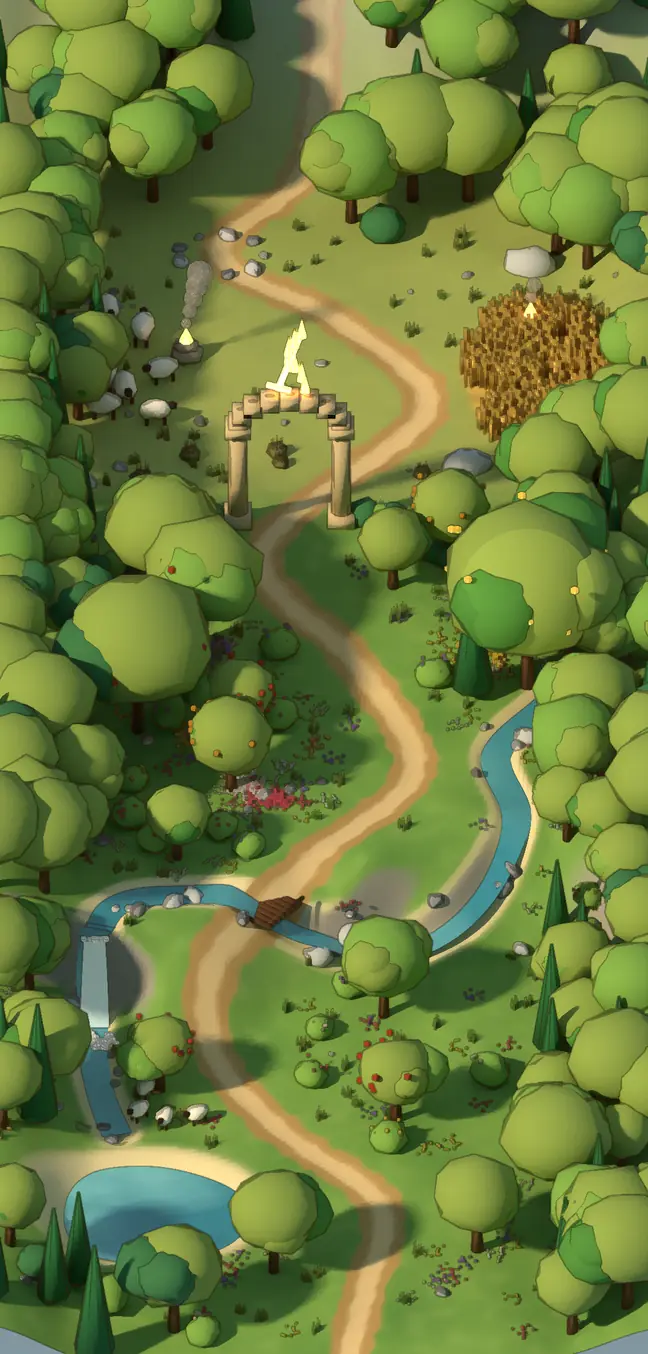
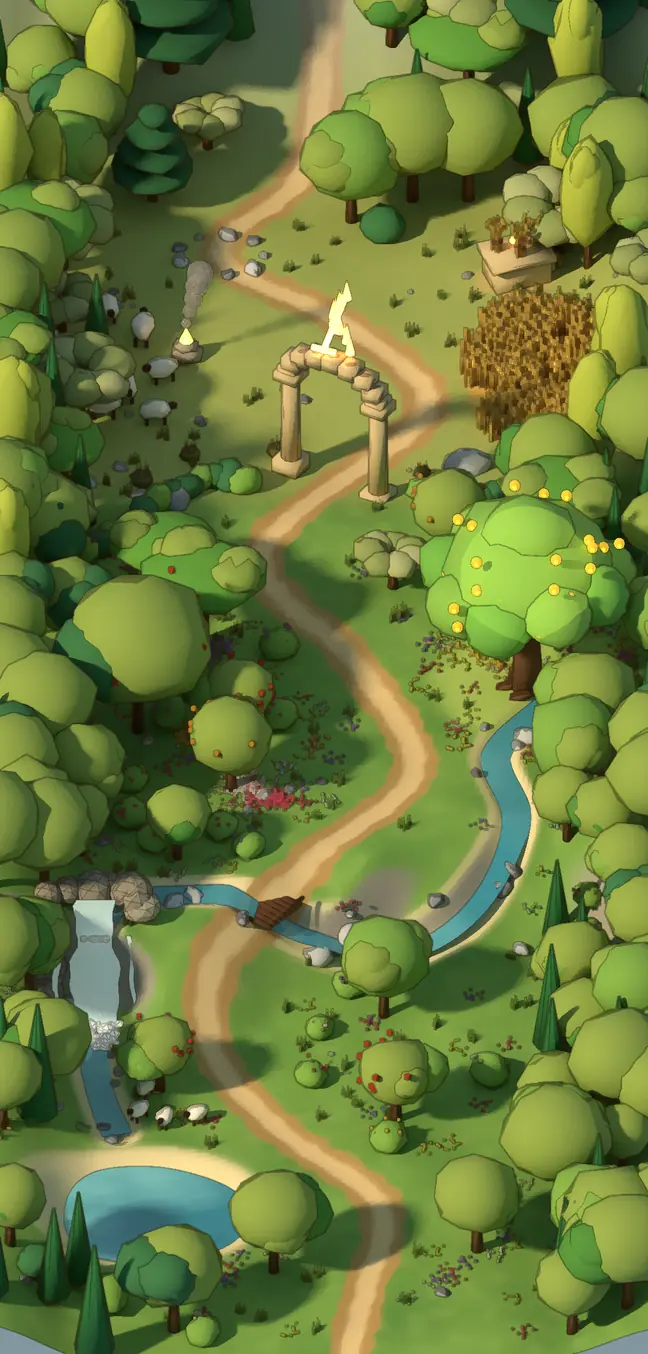
Mapa (Éden): refinamento final da pintura: cachoeira, árvore da vida, variedade de copas, altar de Caim e portão recuado [skip ci]
Os pontos das fases e do baú são idênticos aos anteriores (as mudanças usam um gerador
aleatório próprio e são aplicadas sobre a vegetação já posicionada). Imagem alta 200 KB,
leve 74 KB.

Claude-Session: https://claude.ai/code/session_016Hc4vYc4EVvygkCuyLx8TS

Changed region(s): [[0.0, 0.0, 1.0, 0.5583], [0.0617, 0.6204, 0.3086, 0.7755]]

diff --git a/tools/mapa/eden.py b/tools/mapa/eden.py
@@ -41,6 +41,9 @@ AMOSTRAS = int(args[2]) if len(args) > 2 else 64
 os.makedirs(PASTA, exist_ok=True)
 random.seed(11)
 np.random.seed(11)
+# refinamento final: tudo o que foi acrescentado usa este gerador próprio, para não mexer na
+# sequência global (que decide a posição de toda a vegetação já aprovada)
+RR = random.Random(2026)
 
 bpy.ops.wm.read_factory_settings(use_empty=True)
 sc = bpy.context.scene
@@ -203,6 +206,16 @@ e_campo = np.hypot((GX - 6.4) / 2.7, (GY - 42.4) / 3.5) + 0.22 * borda_c
 campo = suave((1.0 - e_campo) / 0.18)[..., None] * (1 - cam)
 sulco = 0.85 + 0.15 * np.sin(GY * 9.0)[..., None]
 cor = cor * (1 - campo) + hexc('#d4b45a') * sulco * campo
+# clareira em volta da árvore da vida: grama clara e dourada, borda irregular
+VIDA_XY = (5.9, 27.6)
+d_vida = np.hypot(GX - VIDA_XY[0], GY - VIDA_XY[1]) + 0.35 * nz2
+clar = suave((3.1 - d_vida) / 0.9)[..., None] * (1 - cam)
+cor = cor * (1 - 0.8 * clar) + hexc('#b4cf6a') * 0.8 * clar
+# chão batido em volta do altar de Caim (ao norte do trigal)
+CAIM_XY = (5.6, 47.4)
+d_caim = np.hypot((GX - CAIM_XY[0]) / 1.5, (GY - CAIM_XY[1]) / 1.1) + 0.2 * nz2
+chao_c = suave((1.0 - d_caim) / 0.3)[..., None] * (1 - cam)
+cor = cor * (1 - 0.7 * chao_c) + hexc('#cdb27a') * 0.7 * chao_c
 # longe (norte): perspectiva aérea — mais claro e azulado
 longe = suave((GY - 50.0) / 12.0)[..., None]
 cor = cor * (1 - 0.55 * longe) + hexc('#9fb3c4') * 0.55 * longe
@@ -310,19 +323,63 @@ iq = int(np.argmin(np.abs(RIO[:, 1] - yq) + 10 * (RIO[:, 0] > -4)))
 xq = float(RIO[iq, 0])
 z_alto = z_em(xq, yq + 0.6) + 0.2
 z_baixo = z_em(xq, yq - 2.0) + 0.15
+z_topo = z_alto + 1.1  # a água sai de um paredão de rochas acima do terraço: queda mais alta
 vs, fs = [], []
-for k in range(9):
-    t = k / 8
-    for s_ in (-1, 1):
-        vs.append((xq + s_ * (0.32 + 0.12 * t), yq - 0.2 - 1.0 * t * t, z_alto + (z_baixo - z_alto) * t))
+LIN = 18
+for k in range(LIN + 1):
+    t = k / LIN
+    yy = yq + 0.35 - 1.55 * t ** 1.4
+    zz = z_topo + (z_baixo - z_topo) * t
+    meia = 0.5 + 0.28 * t  # abre ao cair
+    xe = xq - meia - 0.09 * math.sin(t * 13.0 + 0.4) - 0.05 * math.sin(t * 29.0)
+    xd = xq + meia + 0.08 * math.sin(t * 11.0 + 1.3) + 0.05 * math.sin(t * 23.0 + 2.0)
+    for xx in (xe, xq + 0.07 * math.sin(t * 9.0), xd):
+        vs.append((xx, yy, zz))
     if k:
-        a = 2 * (k - 1)
-        fs.append((a, a + 1, a + 3, a + 2))
+        a0 = 3 * (k - 1)
+        fs += [(a0, a0 + 1, a0 + 4, a0 + 3), (a0 + 1, a0 + 2, a0 + 5, a0 + 4)]
 mq = bpy.data.meshes.new('cachoeira')
 mq.from_pydata(vs, [], fs)
 oq = bpy.data.objects.new('cachoeira', mq)
 sc.collection.objects.link(oq)
 oq.data.materials.append(queda)
+# fios de água soltos dos lados (a queda não é uma lâmina só)
+for lado, ini, comp, larg in ((-1, 0.15, 0.75, 0.09), (1, 0.3, 0.65, 0.07), (-1, 0.5, 0.45, 0.06)):
+    vs2, fs2 = [], []
+    for k in range(9):
+        t = ini + comp * k / 8
+        yy = yq + 0.35 - 1.55 * t ** 1.4
+        zz = z_topo + (z_baixo - z_topo) * t
+        xc = xq + lado * (0.95 + 0.25 * t) + 0.05 * math.sin(t * 17)
+        vs2 += [(xc - larg, yy - 0.02, zz), (xc + larg, yy - 0.02, zz)]
+        if k:
+            a0 = 2 * (k - 1)
+            fs2.append((a0, a0 + 1, a0 + 3, a0 + 2))
+    m2 = bpy.data.meshes.new('cachoeira_fio')
+    m2.from_pydata(vs2, [], fs2)
+    o2 = bpy.data.objects.new('cachoeira_fio', m2)
+    sc.collection.objects.link(o2)
+    o2.data.materials.append(queda)
+rochedo = material('Rochedo', tuple(hexc('#8d8678')), 0.95)
+rochedo2 = material('Rochedo2', tuple(hexc('#a9a191')), 0.95)
+for k in range(22):  # paredão de rochas: dos dois lados e atrás da queda, mais alto que o terraço
+    lado = -1 if k % 2 else 1
+    t = RR.uniform(0.0, 1.0)
+    yy = yq + 0.55 - 1.5 * t ** 1.4 + RR.uniform(0.1, 0.5)
+    zz = z_topo + (z_baixo - z_topo) * t - 0.15
+    xx = xq + lado * (1.05 + 0.3 * t + RR.uniform(0.0, 0.5))
+    bpy.ops.mesh.primitive_ico_sphere_add(subdivisions=2, radius=RR.uniform(0.35, 0.65), location=(xx, yy, zz))
+    o3 = bpy.context.active_object
+    o3.scale = (1.0, RR.uniform(0.8, 1.2), RR.uniform(0.7, 1.1))
+    o3.data.materials.append(rochedo if k % 3 else rochedo2)
+for k in range(7):  # rochas da borda de cima, por onde a água passa
+    bpy.ops.mesh.primitive_ico_sphere_add(subdivisions=2, radius=RR.uniform(0.4, 0.6), location=(xq + RR.uniform(-1.4, 1.4), yq + 0.9 + RR.uniform(0, 0.5), z_topo - 0.3))
+    bpy.context.active_object.data.materials.append(rochedo)
+for k in range(28):  # névoa e espuma no pé da queda, mais larga
+    a = RR.uniform(0, 2 * math.pi)
+    r = RR.uniform(0.2, 1.3)
+    bpy.ops.mesh.primitive_ico_sphere_add(subdivisions=1, radius=RR.uniform(0.1, 0.24), location=(xq + math.cos(a) * r, yq - 1.25 + math.sin(a) * r * 0.45, z_baixo + 0.12))
+    bpy.context.active_object.data.materials.append(espuma)
 for k in range(10):  # espuma na borda de cima e pedras dos lados da queda
     bpy.ops.mesh.primitive_ico_sphere_add(subdivisions=1, radius=random.uniform(0.07, 0.12), location=(xq + random.uniform(-0.35, 0.35), yq - 0.15, z_alto + 0.05))
     bpy.context.active_object.data.materials.append(espuma)
@@ -485,15 +542,36 @@ def objeto_unico(nome, partes, x, y, rot=0.0, esc=1.0):
 
 
 # 3. árvore da vida (frutos dourados, leve brilho) e árvore do conhecimento (frutos vermelhos)
-vida = arvore_copa('arvore_vida', 4.2, 2.0, 'copa1', 'fruto_d', 91)
-plantar(vida, 5.9, 27.6, 1.25, 0.4, 'arvore_vida_i')
+def arvore_da_vida():
+    rnd = random.Random(91)
+    copa_v = material('CopaVida', tuple(hexc('#7fb34c')), 0.85, emissao=tuple(hexc('#c9e07a')), forca=0.035)
+    copa_v2 = material('CopaVida2', tuple(hexc('#6fae49')), 0.85)
+    fruto = material('FrutoVida', tuple(hexc('#f5c536')), 0.35, emissao=tuple(hexc('#ffcf3a')), forca=1.6)
+    partes = [(cone((0, 0, 0), 0.42, 0.22, 3.0, 12), mats['tronco'])]
+    for k in range(5):  # raízes à mostra
+        a = k * 2 * math.pi / 5 + 0.3
+        partes.append((esfera((math.cos(a) * 0.45, math.sin(a) * 0.45, 0.08), (0.42, 0.16, 0.14), 1, 0.1, 120 + k), mats['tronco']))
+    partes.append((esfera((0, 0, 3.9), (2.2, 2.2, 1.45), 2, 0.14, 130), copa_v))  # cúpula larga
+    for k in range(8):  # coroa de lóbulos em volta (silhueta própria, diferente das outras árvores)
+        a = k * 2 * math.pi / 8 + rnd.uniform(-0.15, 0.15)
+        partes.append((esfera((math.cos(a) * 1.9, math.sin(a) * 1.9, 3.4 + rnd.uniform(-0.2, 0.3)), (0.95, 0.95, 0.8), 2, 0.18, 140 + k), copa_v2 if k % 2 else copa_v))
+    partes.append((esfera((0, 0, 4.9), (1.2, 1.2, 0.9), 2, 0.15, 150), copa_v))
+    for k in range(34):
+        a = rnd.uniform(0, 2 * math.pi)
+        r = rnd.uniform(1.4, 2.6)
+        partes.append((esfera((math.cos(a) * r, math.sin(a) * r, 3.2 + rnd.uniform(0, 1.9)), (0.14, 0.14, 0.16), 2, 0.0), fruto))
+    return juntar('arvore_vida', partes)
+
+
+vida = arvore_da_vida()
+plantar(vida, 5.9, 27.6, 1.15, 0.4, 'arvore_vida_i')
 luz_v = bpy.data.lights.new('brilho_vida', 'POINT')
-luz_v.energy = 45
+luz_v.energy = 75
 luz_v.color = (1.0, 0.85, 0.45)
 luz_v.shadow_soft_size = 2.0
 lo_v = bpy.data.objects.new('brilho_vida', luz_v)
 sc.collection.objects.link(lo_v)
-lo_v.location = (5.9, 26.4, z_em(5.9, 27.6) + 4.2)
+lo_v.location = (5.9, 26.2, z_em(5.9, 27.6) + 5.2)
 conh = arvore_copa('arvore_conhecimento', 3.8, 1.8, 'copa3', 'fruto_v', 97)
 plantar(conh, -5.4, 25.6, 1.2, 1.2, 'arvore_conhecimento_i')
 # nascente do rio: pedras em volta
@@ -502,7 +580,11 @@ for k in range(8):
     plantar(PED[k % 3], 6.6 + math.cos(a) * 0.9, 27.0 + math.sin(a) * 0.7 - 1.3, 0.55, nome='nascente')
 
 # 4. portão do jardim (leste), espada flamejante acima; sebe do jardim dos dois lados; espinhos fora
-xp, yp = -1.0, 35.2
+# recuado ao norte, sobre a própria trilha, para o estandarte da fase 4 não cobrir o arco
+_i = int(np.argmin(np.abs(CAMINHO[:, 1] - 37.6)))
+xp, yp = float(CAMINHO[_i, 0]), float(CAMINHO[_i, 1])
+_tg = CAMINHO[min(_i + 1, len(CAMINHO) - 1)] - CAMINHO[max(_i - 1, 0)]
+rot_portao = math.atan2(_tg[1], _tg[0]) - math.pi / 2
 _portao = []
 for lado in (-1, 1):
     _portao += [(caixa((lado * 1.5, 0, 0.25), (0.8, 0.8, 0.5)), mats['portal']),
@@ -511,7 +593,7 @@ for lado in (-1, 1):
 for k in range(9):  # verga em arco, de pedras
     a = math.pi * k / 8
     _portao.append((caixa((-1.5 * math.cos(a), 0, 3.7 + 0.9 * math.sin(a)), (0.55, 0.6, 0.42)), mats['portal']))
-objeto_unico('portao', _portao, xp, yp, 0.0)
+objeto_unico('portao', _portao, xp, yp, rot_portao)
 espada = objeto_unico('espada', [
     (caixa((0, 0, 0), (0.12, 0.06, 1.5)), mats['espada']),
     (caixa((0, 0, -0.68), (0.5, 0.08, 0.1)), mats['espada']),
@@ -523,13 +605,20 @@ for k in range(7):  # chamas em volta da lâmina (Gn 3.24: a espada inflamada)
     a = k * 2 * math.pi / 7
     bpy.ops.mesh.primitive_cone_add(vertices=6, radius1=0.16, depth=0.7, location=(xp + 0.25 * math.cos(a) + 0.2, yp + 0.12 * math.sin(a), z_em(xp, yp) + 5.2 + 0.35 * k))
     bpy.context.active_object.data.materials.append(mats['fogo'])
+# a sebe acompanha o portão; os sorteios dela saem de uma cópia do gerador global, que depois
+# avança exatamente como antes (o resto da vegetação continua no mesmo lugar)
+_rs = random.Random()
+_rs.setstate(random.getstate())
+_n_antes = sum(1 for k in range(30) for lado in (-1, 1) if abs(-1.0 + lado * (2.2 + k * 0.42)) <= 9.2)
+for _ in range(3 * _n_antes):
+    random.random()
 for k in range(30):  # sebe viva do jardim, em arco irregular, interrompida no portão
     for lado in (-1, 1):
         x = xp + lado * (2.2 + k * 0.42)
         if abs(x) > 9.2:
             continue
-        y = yp - 0.07 * (x - xp) ** 2 + 0.6 * math.sin(x * 1.3) + random.uniform(-0.2, 0.2)
-        plantar(ARB[k % 3], x, y, random.uniform(0.65, 0.9), nome='sebe')
+        y = yp - 0.07 * (x - xp) ** 2 + 0.6 * math.sin(x * 1.3) + _rs.uniform(-0.2, 0.2)
+        plantar(ARB[k % 3], x, y, _rs.uniform(0.65, 0.9), _rs.uniform(0, 6.28), nome='sebe')
 for k in range(14):  # espinhos e cardos do lado de fora
     x, y = random.uniform(-8.5, 8.5), random.uniform(36.5, 40.0)
     if dist_caminho(np.array([x]), np.array([y]))[0] > 1.6:
@@ -559,7 +648,30 @@ def altar(nome, x, y, fumaca_alta):
 
 
 altar('altar_abel', -4.0, 43.6, True)
-altar('altar_caim', 6.0, 44.5, False)
+
+
+def altar_caim(x, y):
+    lavrada = material('PedraLavrada', tuple(hexc('#cbb68a')), 0.9)
+    partes = [(caixa((0, 0, 0.32), (1.25, 0.9, 0.64)), lavrada),
+              (caixa((0, 0, 0.7), (1.45, 1.05, 0.14)), lavrada)]
+    for k, (dx, dy) in enumerate(((-0.4, 0.15), (0.0, -0.2), (0.42, 0.12))):  # feixes de trigo (a oferta)
+        for j in range(11):  # hastes finas, com as espigas abrindo no alto
+            ang = j * 2 * math.pi / 11 + k
+            r0 = 0.05 + 0.06 * (j % 3) / 2
+            partes.append((cone((dx + math.cos(ang) * r0, dy + math.sin(ang) * r0, 0.77), 0.022, 0.018, 0.62, 5), mats['trigo']))
+            partes.append((esfera((dx + math.cos(ang) * (r0 + 0.1), dy + math.sin(ang) * (r0 + 0.1), 1.45), (0.045, 0.045, 0.11), 1, 0.0), mats['trigo']))
+        partes.append((cone((dx, dy, 1.0), 0.13, 0.13, 0.06, 8), mats['madeira']))  # amarra
+    partes.append((cone((0.05, 0.3, 0.77), 0.12, 0.0, 0.3, 6), mats['fogo']))
+    objeto_unico('altar_caim', partes, x, y, 0.35, 1.35)
+    for k in range(2):  # fumaça baixa, que se espalha de lado (a de Abel sobe alta)
+        bpy.ops.mesh.primitive_ico_sphere_add(subdivisions=2, radius=0.15 + k * 0.05, location=(x + 0.35 + 0.35 * k, y + 0.3, z_em(x, y) + 1.25 + 0.12 * k))
+        bpy.context.active_object.data.materials.append(mats['fumaca'])
+    for k in range(5):  # feixes no chão em volta
+        a = 0.6 + k * 0.9
+        plantar(TRIGO, x + math.cos(a) * 1.25, y + math.sin(a) * 0.95, 0.55, RR.uniform(0, 6.28), nome='feixe')
+
+
+altar_caim(*CAIM_XY)
 
 # baú: clareira de pedra (o baú interativo fica por cima, na interface)
 xb, yb = PONTOS[5][1]
@@ -646,6 +758,78 @@ cx_, cy_ = melhor[1]
 ang = math.atan2(*(CAMINHO[min(len(CAMINHO) - 1, np.argmin(np.hypot(CAMINHO[:, 0] - cx_, CAMINHO[:, 1] - cy_)) + 2)] - np.array([cx_, cy_]))[::-1])
 objeto_unico('ponte', [(caixa((0, k * 0.22 - 0.66, 0.3), (1.4, 0.18, 0.08)), mats['madeira']) for k in range(7)] +
              [(caixa((s * 0.72, 0, 0.55), (0.08, 1.6, 0.08)), mats['madeira']) for s in (-1, 1)], cx_, cy_, ang - math.pi / 2)
+
+# ------------------------------------------------------------------ refinamento: clareiras e variedade
+def variante(nome, tipo, sem):
+    rnd = random.Random(sem)
+    if tipo == 'oliveira':  # baixa, larga, verde acinzentado, tronco torto
+        partes = [(cone((0, 0, 0), 0.2, 0.12, 1.0, 8), mats['tronco']), (cone((0.15, 0, 0.8), 0.12, 0.08, 0.6, 8), mats['tronco'])]
+        for k in range(7):
+            a = k * 2 * math.pi / 7
+            partes.append((esfera((math.cos(a) * 0.8, math.sin(a) * 0.7, 1.45 + rnd.uniform(-0.15, 0.2)), (0.62, 0.58, 0.42), 2, 0.25, sem + k), mats['oliva' if k % 3 else 'oliva2']))
+        return juntar(nome, partes)
+    if tipo == 'terebinto':  # copa em guarda-chuva, achatada
+        partes = [(cone((0, 0, 0), 0.2, 0.13, 2.4, 8), mats['tronco']),
+                  (esfera((0, 0, 2.6), (1.9, 1.7, 0.6), 2, 0.2, sem), mats['copa5'])]
+        for k in range(4):
+            a = rnd.uniform(0, 2 * math.pi)
+            partes.append((esfera((math.cos(a) * 1.1, math.sin(a) * 1.0, 2.9), (0.8, 0.8, 0.45), 2, 0.2, sem + 5 + k), mats['copa4']))
+        return juntar(nome, partes)
+    if tipo == 'alamo':  # alto e estreito, verde-amarelado
+        return juntar(nome, [(cone((0, 0, 0), 0.13, 0.08, 1.2, 8), mats['tronco']),
+                             (esfera((0, 0, 2.6), (0.75, 0.75, 1.9), 2, 0.15, sem), mats['copa_clara']),
+                             (esfera((0.2, 0.1, 3.5), (0.45, 0.45, 0.9), 2, 0.15, sem + 1), mats['copa_clara'])])
+    if tipo == 'cedro':  # camadas escuras, em degraus
+        partes = [(cone((0, 0, 0), 0.18, 0.1, 1.2, 8), mats['tronco'])]
+        for k in range(4):
+            partes.append((esfera((rnd.uniform(-0.1, 0.1), 0, 1.3 + k * 0.75), (1.5 - k * 0.3, 1.4 - k * 0.28, 0.32), 2, 0.2, sem + k), mats['copa_escura']))
+        return juntar(nome, partes)
+    if tipo == 'amendoeira':  # em flor (Gn 43.11 cita amêndoas entre os bons frutos da terra)
+        return arvore_copa(nome, 2.3, 1.0, 'amendoa', None, sem)
+    return arvore_copa(nome, 2.0 + rnd.uniform(0, 1.2), 0.9 + rnd.uniform(0, 0.5), 'copa_escura', None, sem)
+
+
+mats.update({
+    'oliva': material('Oliva', tuple(hexc('#8e9c5e')), 0.9), 'oliva2': material('Oliva2', tuple(hexc('#a6ad7a')), 0.9),
+    'copa5': material('Copa5', tuple(hexc('#5f9a3e')), 0.9), 'copa_clara': material('CopaClara', tuple(hexc('#a9b949')), 0.9),
+    'copa_escura': material('CopaEscura', tuple(hexc('#2f5f3b')), 0.9), 'amendoa': material('Amendoa', tuple(hexc('#efcfd6')), 0.85),
+})
+VARIANTES = [variante(f'var_{t}{k}', t, 300 + 17 * k + i * 101) for i, t in enumerate(['oliveira', 'terebinto', 'alamo', 'cedro', 'amendoeira', 'escura']) for k in range(2)]
+PESOS = {'oliveira': 3, 'terebinto': 2, 'alamo': 2, 'cedro': 2, 'amendoeira': 1, 'escura': 2}
+
+PORTAO_XY = (xp, yp)
+ALTAS = ('arv', 'frut', 'cip', 'palm', 'arb', 'var_')
+for ob in list(sc.collection.objects):
+    if ob.data is None or not hasattr(ob.data, 'name'):
+        continue
+    d = ob.data.name
+    x, y = ob.location.x, ob.location.y
+    alta = d.startswith(ALTAS) and ob.name.startswith(('veg', 'sebe', 'espinho'))
+    if alta and math.hypot(x - VIDA_XY[0], y - VIDA_XY[1]) < 3.4 and ob.name != 'arvore_vida_i':
+        bpy.data.objects.remove(ob)  # clareira da árvore da vida
+        continue
+    if (alta or ob.name == 'espinho') and math.hypot(x - PORTAO_XY[0], y - PORTAO_XY[1]) < 2.6:  # (a espada fica)
+        bpy.data.objects.remove(ob)  # nada na frente do portão
+        continue
+    if (alta or d.startswith('trigo')) and ob.name != 'feixe' and math.hypot((x - CAIM_XY[0]) / 1.7, (y - CAIM_XY[1]) / 1.3) < 1.0:
+        bpy.data.objects.remove(ob)  # o altar de Caim fica à vista
+        continue
+    # metade de cima: troca parte das copas iguais por outras espécies, alturas e tons
+    if ob.name.startswith('veg') and d.startswith('arv') and y > 29.0 and RR.random() < 0.72:
+        tipos = [t for t, p in PESOS.items() for _ in range(p)]
+        t = RR.choice(tipos)
+        cand = [v for v in VARIANTES if v.name.startswith(f'var_{t}')]
+        ob.data = RR.choice(cand).data
+        perto = min(math.hypot(x - px, y - py) for _, (px, py) in PONTOS)
+        e = RR.uniform(0.8, 1.3) if perto > 4.0 else RR.uniform(0.75, 1.0)
+        ob.scale = (ob.scale[0] * e,) * 3
+# anel de flores em volta da clareira da árvore da vida
+for k in range(26):
+    a = k * 2 * math.pi / 26 + RR.uniform(-0.1, 0.1)
+    r = RR.uniform(2.7, 3.3)
+    x, y = VIDA_XY[0] + math.cos(a) * r, VIDA_XY[1] + math.sin(a) * r
+    if dist_caminho(np.array([x]), np.array([y]))[0] > 1.1 and dist_rio(np.array([x]), np.array([y]))[0] > 0.6:
+        plantar(FLOR[k % 4], x, y, RR.uniform(1.0, 1.4), RR.uniform(0, 6.28), nome='flor_vida')
 
 # ------------------------------------------------------------------ luz, céu e câmera
 w = bpy.data.worlds.new('ceu')
@@ -764,7 +948,14 @@ pontos = []
 for nome, (x, y) in PONTOS:
     co = world_to_camera_view(sc, cam, Vector((x, y, z_em(x, y))))
     pontos.append({'id': nome, 'x': round(co.x, 5), 'y': round(1 - co.y, 5)})
-info = {'largura': sc.render.resolution_x, 'altura': sc.render.resolution_y, 'pontos': pontos}
+# referências (só para conferência): onde caem na imagem o topo do arco do portão, a árvore da vida e os altares
+refs = {}
+for nome, co3 in (('arco_portao', (xp, yp, z_em(xp, yp) + 4.6)), ('base_portao', (xp, yp, z_em(xp, yp))),
+                  ('arvore_vida', (VIDA_XY[0], VIDA_XY[1], z_em(*VIDA_XY) + 4.5)), ('altar_caim', (*CAIM_XY, z_em(*CAIM_XY) + 0.8)),
+                  ('altar_abel', (-4.0, 43.6, z_em(-4.0, 43.6) + 0.6))):
+    co = world_to_camera_view(sc, cam, Vector(co3))
+    refs[nome] = {'x': round(co.x, 5), 'y': round(1 - co.y, 5)}
+info = {'largura': sc.render.resolution_x, 'altura': sc.render.resolution_y, 'pontos': pontos, 'referencias': refs}
 json.dump(info, open(os.path.join(PASTA, 'eden.json'), 'w'), indent=1)
 print('pontos', info)
 print('renderizando', sc.render.resolution_x, 'x', sc.render.resolution_y, 'amostras', AMOSTRAS)

diff --git a/public/mapas/LICENCAS.md b/public/mapas/LICENCAS.md
@@ -5,6 +5,15 @@
 | `genesis/eden.webp` (1080 × 2257, qualidade alta) | Cena 3D procedural criada do zero por código próprio do projeto (`tools/mapa/eden.py`): relevo, água, vegetação, marcos e acabamento de pintura (filtro Kuwahara e contornos no compositor). Nenhuma textura, modelo ou imagem de terceiros. | Blender 4.0 (Cycles), Pillow (conversão para WebP) | 27/11/2026 | Do projeto Bible Quest (mesma licença do código) |
 | `genesis/eden-leve.webp` (648 × 1354, qualidade leve e 2D) | Redução da imagem acima | Pillow | 27/11/2026 | Do projeto Bible Quest |
 
+Refinamento final da pintura (27/11/2026), mesma origem, ferramenta e licença:
+- cachoeira mais alta e larga, com borda irregular, fios soltos e paredão de rochas;
+- árvore da vida com forma própria, frutos dourados e clareira com anel de flores;
+- espécies variadas na metade de cima (oliveira, terebinto, álamo, cedro, amendoeira em flor);
+- altar de Caim em pedra lavrada, com feixes de trigo, ao norte do trigal; a fumaça alta continua no de Abel;
+- portão recuado sobre a trilha, para o estandarte da fase 4 não cobrir o arco.
+
+Os pontos das fases e do baú não mudaram.
+
 Para regerar:
 
 ```bash
